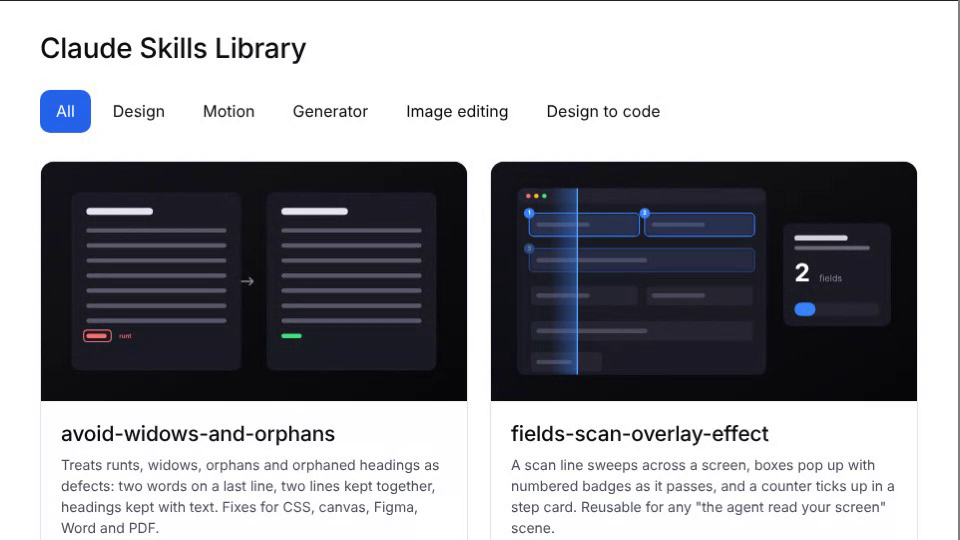
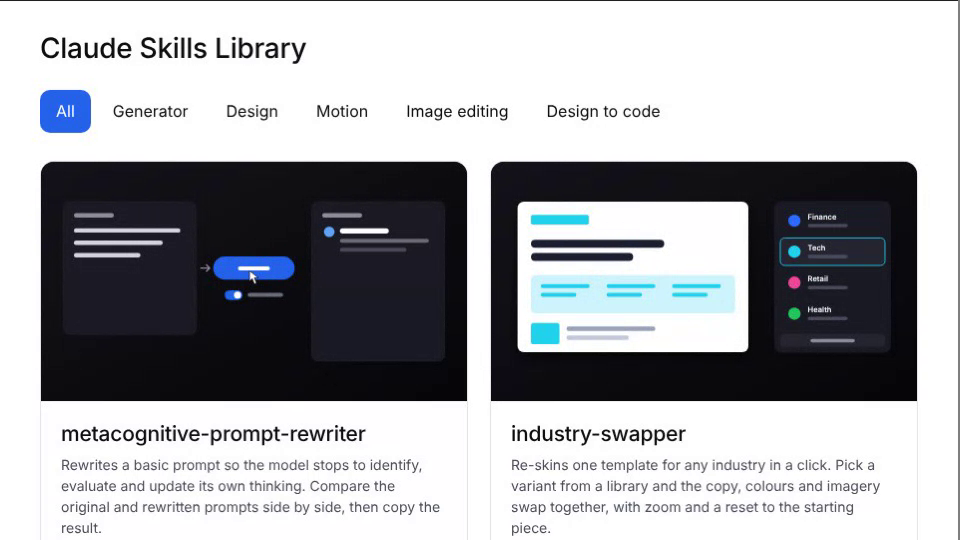
Skills Library: add industry-swapper and metacognitive-prompt-rewriter
Claude-Session: https://claude.ai/code/session_01AHeBdzfwQsZW7SD9XQB6B1

diff --git a/skills-library/index.html b/skills-library/index.html
@@ -105,6 +105,22 @@ var ICON={
 };
 var SKILLS=[
   {
+    title:'metacognitive-prompt-rewriter',
+    desc:'Rewrites a basic prompt so the model stops to identify, evaluate and update its own thinking. Compare the original and rewritten prompts side by side, then copy the result.',
+    category:'Generator', cIcon:'image',
+    use:'Better prompts for Claude', uIcon:'design',
+    art:'art/metacognitive-prompt-rewriter.svg',
+    alt:'A short prompt is transformed into a longer rewritten prompt with three thinking steps, then copied'
+  },
+  {
+    title:'industry-swapper',
+    desc:'Re-skins one template for any industry in a click. Pick a variant from a library and the copy, colours and imagery swap together, with zoom and a reset to the starting piece.',
+    category:'Generator', cIcon:'image',
+    use:'Direct mail and ad mockups', uIcon:'mockup',
+    art:'art/industry-swapper.svg',
+    alt:'A postcard mockup changes colour and copy as the selected industry moves down a library list: finance, tech, retail, health'
+  },
+  {
     title:'avoid-widows-and-orphans',
     desc:'Treats runts, widows, orphans and orphaned headings as defects: two words on a last line, two lines kept together, headings kept with text. Fixes for CSS, canvas, Figma, Word and PDF.',
     category:'Design', cIcon:'design',
@@ -203,6 +219,12 @@ var EX={
 'asset-generator-engine':[['blog-banner-studio','Blog Banner Studio'],['conference-post-generator','Conference Post Creator'],['lifecycle-image-engine','Lifecycle Image Studio'],['hero-banner-engine','Banner Template Studio'],['postmark-ribbon-engine','Postmark Awards Ribbon Engine'],['grubclub-end-card','Grubclub End Card Maker']]};
 var RM=window.matchMedia&&matchMedia('(prefers-reduced-motion: reduce)').matches;
 var D={
+'metacognitive-prompt-rewriter':{saves:'Rewriting prompts by hand to make the model check its own thinking',work:["Working out how to ask the model to question its own approach, every time","Rewriting each prompt from scratch to add steps for identifying, evaluating and updating its thinking","Comparing the old and new versions by eye to see what changed"],
+ p:["This skill rewrites an ordinary prompt into a metacognitive one: a prompt that asks the model to think about its own thinking before it answers.","You paste a prompt into the input box, choose whether thinking is on, and press Transform. The rewritten prompt asks the model to identify how it is approaching the task, evaluate whether that approach is working, and update it if it isn’t.","The original and the rewrite sit side by side, so you can see exactly what was added. When you’re happy with it, one button copies the result, ready to paste into Claude."],
+ prompts:["Use metacognitive-prompt-rewriter to rewrite this prompt: [your prompt].","Rewrite this prompt so the model identifies, evaluates and updates its thinking, with thinking turned on.","Show the original and rewritten prompts side by side, then give me the rewrite to copy."]},
+'industry-swapper':{saves:'Remaking the same mockup by hand for every industry',work:["Duplicating one template and rewriting the headline, offer and details for each industry","Re-picking colours and imagery so each version looks right for its sector","Keeping the layout identical across every variant, then repeating it all for the next industry"],
+ p:["Industry Swapper re-skins one template for any industry, live. It’s built from the direct mail mock-up generator: one postcard design that changes to suit whoever you’re showing it to.","On one side is a preview of the piece, with zoom controls to check the details. On the other is a library of variants grouped by industry, such as finance, tech, retail, automotive, insurance and health. Pick one and the copy, colours and imagery all swap together.","The layout never changes, only the content, so every version stays consistent. A reset button takes you back to the starting piece, and the same setup works for ads, landing pages and other mockups."],
+ prompts:["Use industry-swapper to build a postcard mockup that re-skins for any industry.","Add a library of variants grouped by industry, with copy, colours and imagery for each.","Add zoom controls and a reset button to this industry swapper."]},
 'avoid-widows-and-orphans':{saves:'Hand-checking every text block for stranded words and lines',work:["Reading every paragraph, heading and caption to spot a lone word on the last line", "Nudging line breaks and widths by hand, then re-checking after every edit", "Re-testing at narrow and wide widths, and again in print, slides or canvas renders"],
  p:["Single words left alone on a line make good layouts look unfinished. This skill spots four kinds of stranded text: a lone word on a paragraph’s last line, a last line left at the top of a page or column, a first line left at the bottom, and a heading separated from its text.", "It follows a few simple rules. A last line gets at least two words, a paragraph keeps at least two lines together at a break, a heading always stays with the text under it, and short words and numbers stay attached to their neighbours.", "It knows how to fix this in each place you work: web pages, p5.js and canvas, Figma, Word, PDFs and slides. When it’s done, it checks the last line of every block at narrow and wide widths, and looks at a render to be sure."],
  prompts:['Use avoid-widows-and-orphans to check the last line of every text block on this page.','Fix the runts and orphaned headings in this slide deck.','Apply text-wrap: balance and pretty to this stylesheet, then check narrow and wide widths.','Check the wrapped text in this p5.js sketch for widows and orphans.']},
